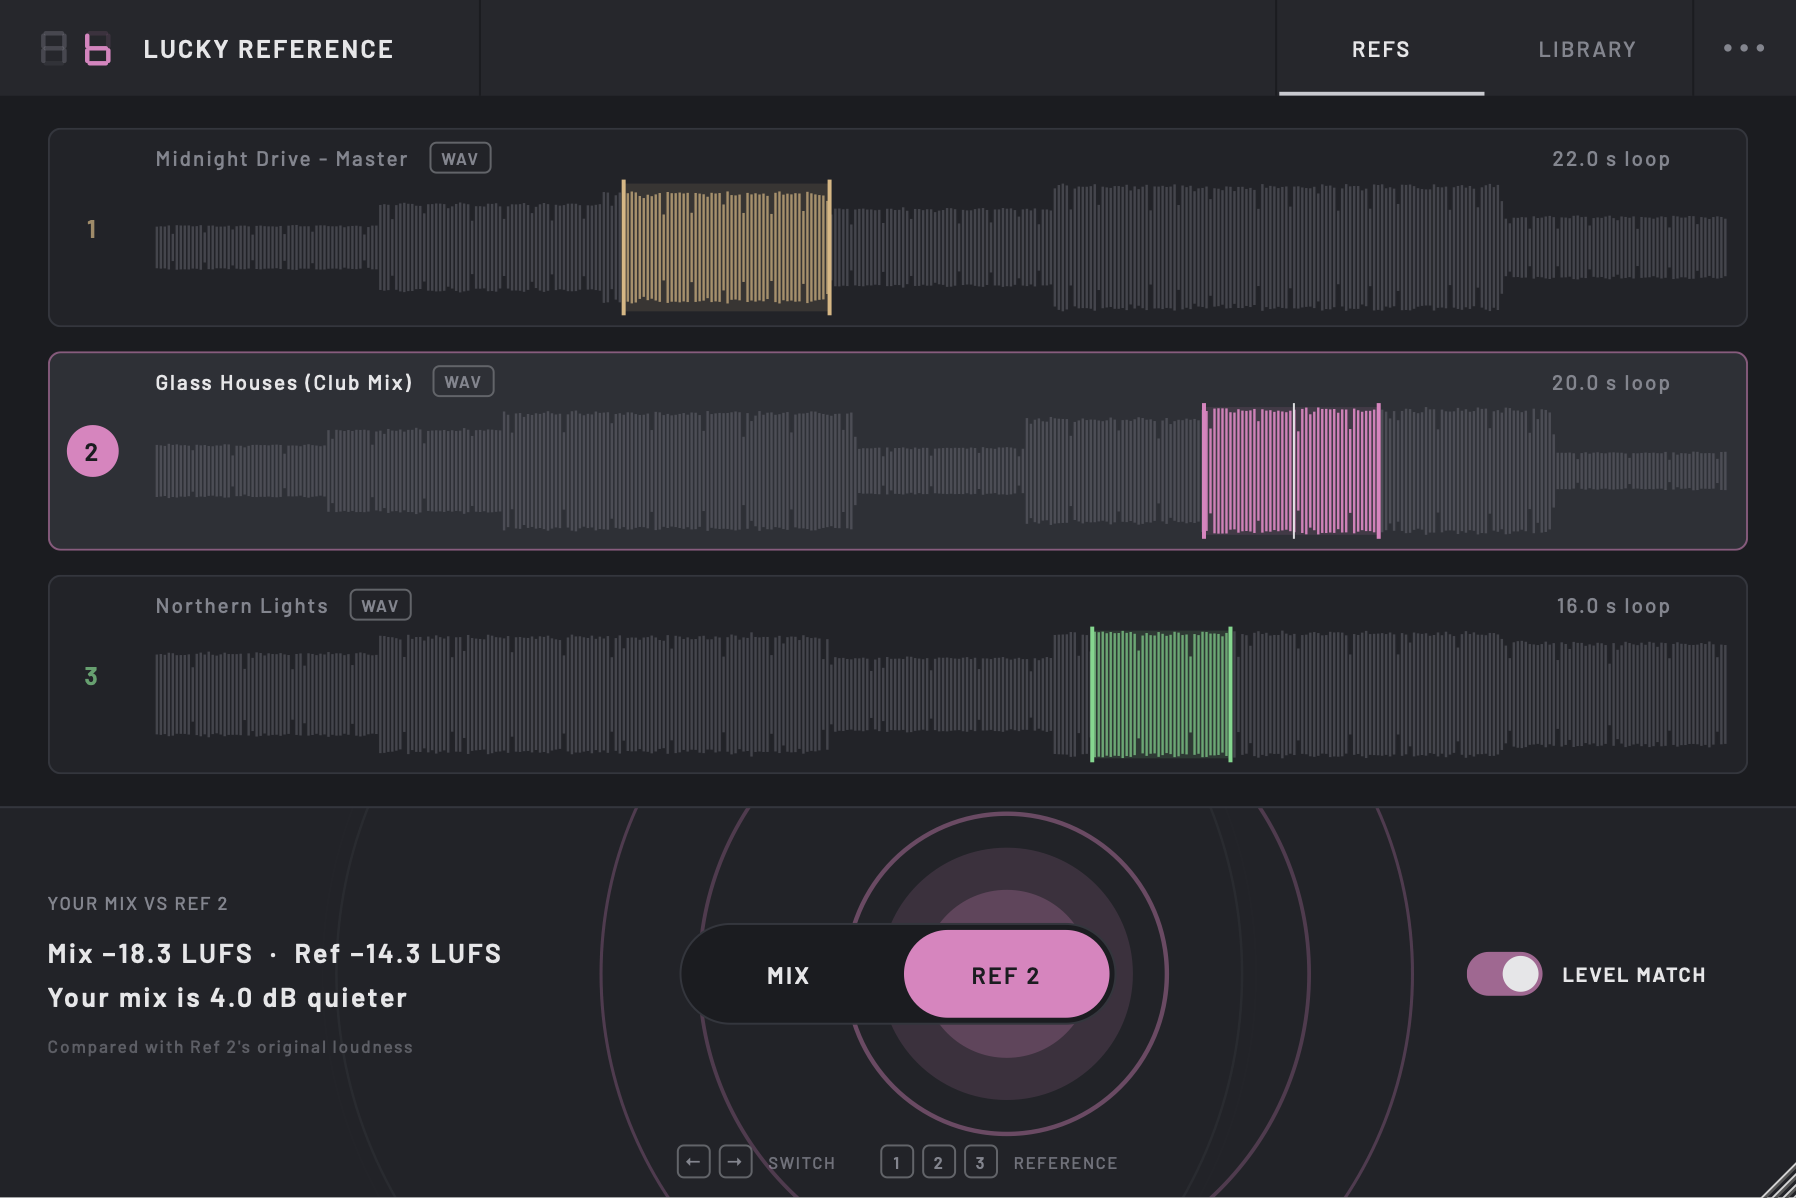
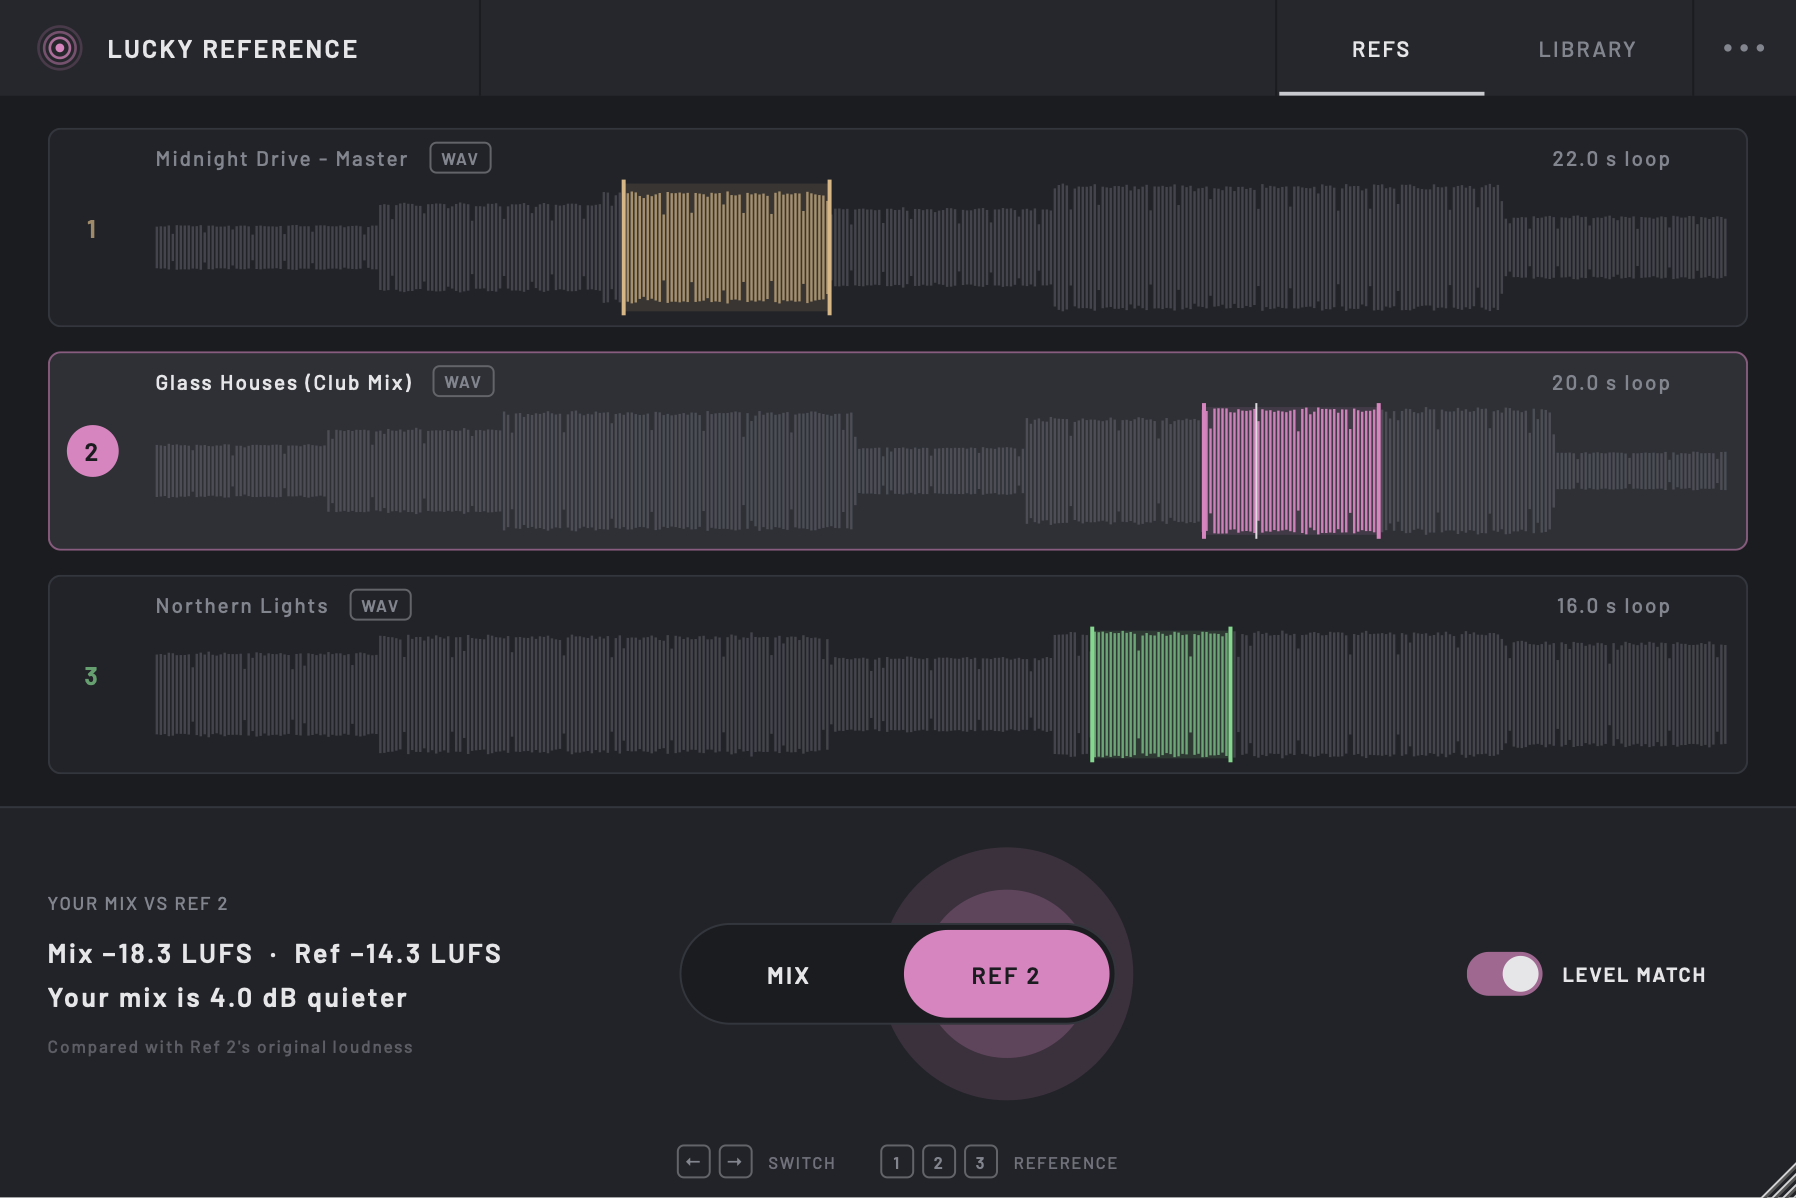
docs(site): reposition the site around mixing by ear
New headline and pillars, the renamed plugins, ripple logos, refreshed
screenshots, a gold open-source badge and a full-width footer.

Changed region(s): [[0.0, 0.0309, 0.2183, 0.0618], [0.4989, 0.6795, 0.6236, 0.7104], [0.5301, 0.9265, 0.5924, 0.9574]]

diff --git a/docs/index.html b/docs/index.html
@@ -4,16 +4,16 @@
 <meta charset="utf-8">
 <meta name="viewport" content="width=device-width, initial-scale=1">
 <title>Lucky Labs</title>
-<meta name="description" content="Lucky Labs makes simple, free, open-source audio plugins for macOS that get you to the right mix decision fast, by ear: Lucky Seven (convolution reverb), Lucky Comp (compressor) and Lucky Reference (reference tracks at matched loudness).">
+<meta name="description" content="Lucky Labs makes purpose-built mixing tools for macOS that help you make better mix decisions by ear: Lucky Reverb (convolution reverb), Lucky Compressor and Lucky Reference (reference tracks at matched loudness). Free and open source.">
 <meta property="og:title" content="Lucky Labs">
-<meta property="og:description" content="Let your ears do the mixing. Simple, free plugins for macOS that get you to the right mix decision fast.">
-<meta property="og:image" content="https://tomdmaguire.github.io/lucky-labs/assets/lucky-seven.png">
+<meta property="og:description" content="Make better mix decisions. By ear. Purpose-built mixing tools for macOS, free and open source.">
+<meta property="og:image" content="https://tomdmaguire.github.io/lucky-labs/assets/lucky-reverb.png">
 <meta property="og:type" content="website">
 <meta name="twitter:card" content="summary_large_image">
 <link rel="icon" href="assets/logo.svg" type="image/svg+xml">
 <link rel="stylesheet" href="assets/fonts/barlow.css">
 <style>
-  /* The Lucky family look: charcoal, pastel accents, Barlow throughout, seven-segment logos. */
+  /* The Lucky family look: charcoal, pastel accents, Barlow throughout, ripple logos. */
   :root {
     color-scheme: dark;
     --bg: #1b1c20;
@@ -54,6 +54,7 @@
   .hero h1 { font-family: var(--display); font-weight: 600; font-size: clamp(44px, 7vw, 76px); line-height: 1.0; letter-spacing: 0.01em; margin: 12px 0 22px; text-wrap: balance; }
   .hero p { color: var(--dim); max-width: 54ch; margin: 0 0 16px; }
   .hero p strong { color: var(--text); font-weight: 500; }
+  .chip { display: inline-block; margin-top: 6px; padding: 6px 12px; border: 1px solid color-mix(in srgb, var(--gold) 55%, transparent); background: color-mix(in srgb, var(--gold) 12%, transparent); border-radius: 999px; font-family: var(--display); font-weight: 600; letter-spacing: 0.08em; text-transform: uppercase; font-size: 13px; color: var(--gold); }
   .actions { display: flex; flex-wrap: wrap; gap: 14px; margin-top: 28px; }
   .button { display: inline-flex; align-items: center; gap: 10px; padding: 13px 22px; border-radius: 6px; font-family: var(--display); font-weight: 600; letter-spacing: 0.1em; text-transform: uppercase; font-size: 15px; text-decoration: none; }
   .button.primary { background: var(--gold); color: #1b1c20; }
@@ -61,17 +62,20 @@
   .button.secondary { color: var(--text); border: 1px solid var(--line); }
   .button.secondary:hover { border-color: var(--dim); }
 
-  /* Each plugin's seven-segment logo, lighting up in turn like a display cycling through its digits. */
+  /* Each plugin's ripple logo, lighting up in turn. */
   .display { justify-self: center; display: flex; gap: clamp(14px, 3vw, 28px); align-items: flex-end; padding: 28px 30px 22px; background: #141518; border: 1px solid var(--line); border-radius: 16px; box-shadow: inset 0 2px 18px rgba(0, 0, 0, 0.5); }
   .digit { display: grid; justify-items: center; gap: 12px; text-decoration: none; }
   .digit svg { height: clamp(78px, 11vw, 120px); overflow: visible; }
-  .digit path { fill: none; stroke-width: 5.5; stroke-linecap: round; stroke: var(--c); transition: opacity 0.6s ease, filter 0.6s ease; }
-  .digit .off { opacity: 0.08; }
-  .digit .lit { opacity: 0.35; }
-  .digit.on .lit { opacity: 1; filter: drop-shadow(0 0 9px color-mix(in srgb, var(--c) 60%, transparent)); }
+  .digit svg circle { transition: opacity 0.6s ease, filter 0.6s ease; }
+  .digit .ring { fill: none; stroke-width: 3; stroke: var(--c); opacity: 0.12; }
+  .digit .dot { fill: var(--c); opacity: 0.3; }
+  .digit.on .ring:nth-of-type(1) { opacity: 0.8; }
+  .digit.on .ring:nth-of-type(2) { opacity: 0.5; }
+  .digit.on .ring:nth-of-type(3) { opacity: 0.25; }
+  .digit.on .dot { opacity: 1; filter: drop-shadow(0 0 9px color-mix(in srgb, var(--c) 60%, transparent)); }
   .digit span { font-family: var(--display); font-weight: 600; letter-spacing: 0.16em; font-size: 12px; color: var(--dim); transition: color 0.6s ease; white-space: nowrap; }
   .digit.on span { color: var(--c); }
-  @media (prefers-reduced-motion: reduce) { .digit .lit { opacity: 1; } .digit span { color: var(--c); } }
+  @media (prefers-reduced-motion: reduce) { .digit .dot { opacity: 1; } .digit span { color: var(--c); } }
 
   section { padding-block: 64px; }
   section + section { border-top: 1px solid var(--line); }
@@ -80,6 +84,7 @@
 
   .plugin { display: grid; grid-template-columns: minmax(0, 1.25fr) minmax(0, 1fr); gap: 44px; align-items: center; }
   .plugin + .plugin { margin-top: 72px; }
+  .plugin:nth-of-type(even) { grid-template-columns: minmax(0, 1fr) minmax(0, 1.25fr); }
   .plugin:nth-of-type(even) .shot { order: 2; }
   .shot { display: block; border-radius: 12px; border: 1px solid var(--line); overflow: hidden; box-shadow: 0 30px 80px rgba(0, 0, 0, 0.45); transition: border-color 0.2s ease, transform 0.2s ease; }
   .shot:hover { border-color: color-mix(in srgb, var(--c) 60%, var(--line)); transform: translateY(-2px); }
@@ -100,14 +105,15 @@
   .feature p { margin: 0; color: var(--dim); }
 
   footer { border-top: 1px solid var(--line); padding-block: 36px 48px; color: var(--dim); font-size: 14px; }
-  footer .wrap { display: flex; flex-wrap: wrap; justify-content: space-between; gap: 12px 32px; }
-  footer p { margin: 0; max-width: 70ch; }
+  footer .wrap { display: grid; gap: 12px; }
+  footer .lead { color: var(--text); }
+  footer p { margin: 0; }
 
   @media (max-width: 980px) { .features { grid-template-columns: repeat(2, minmax(0, 1fr)); } }
   @media (max-width: 860px) {
     .hero { grid-template-columns: minmax(0, 1fr); padding-top: 48px; gap: 36px; }
     .display { justify-self: start; }
-    .plugin { grid-template-columns: minmax(0, 1fr); gap: 24px; }
+    .plugin, .plugin:nth-of-type(even) { grid-template-columns: minmax(0, 1fr); gap: 24px; }
     .plugin:nth-of-type(even) .shot { order: 0; }
   }
   @media (max-width: 560px) {
@@ -134,22 +140,23 @@
   <div class="wrap">
     <div class="hero">
       <div>
-        <span class="label">Open-source plugins for macOS</span>
-        <h1>Let your ears do the mixing.</h1>
-        <p><strong>Simple, free plugins that get you to the right mix decision fast.</strong></p>
+        <span class="label">Audio plugins for macOS</span>
+        <h1>Make better mix decisions. By ear.</h1>
+        <p><strong>Purpose-built mixing tools that help you hear what matters, without getting in the way.</strong></p>
+        <span class="chip">Free &amp; open source</span>
       </div>
 
       <div class="display" aria-hidden="true">
-        <a class="digit" href="#lucky-seven" style="--c: var(--gold)" tabindex="-1">
-          <svg viewBox="12 8 40 50"><path class="lit" d="M22 14 H42"/><path class="lit" d="M45 17 V30"/><path class="lit" d="M45 35 V48"/><path class="off" d="M19 17 V30"/><path class="off" d="M22 32.5 H42"/><path class="off" d="M19 35 V48"/><path class="off" d="M22 51 H42"/></svg>
-          <span>SEVEN</span>
+        <a class="digit" href="#lucky-reverb" style="--c: var(--gold)" tabindex="-1">
+          <svg viewBox="0 0 64 64"><circle class="ring" cx="32" cy="32" r="11.5"/><circle class="ring" cx="32" cy="32" r="18"/><circle class="ring" cx="32" cy="32" r="24.5"/><circle class="dot" cx="32" cy="32" r="5"/></svg>
+          <span>REVERB</span>
         </a>
-        <a class="digit" href="#lucky-comp" style="--c: var(--green)" tabindex="-1">
-          <svg viewBox="12 8 40 50"><path class="lit" d="M22 14 H42"/><path class="lit" d="M19 17 V30"/><path class="lit" d="M19 35 V48"/><path class="lit" d="M22 51 H42"/><path class="off" d="M45 17 V30"/><path class="off" d="M22 32.5 H42"/><path class="off" d="M45 35 V48"/></svg>
-          <span>COMP</span>
+        <a class="digit" href="#lucky-compressor" style="--c: var(--green)" tabindex="-1">
+          <svg viewBox="0 0 64 64"><circle class="ring" cx="32" cy="32" r="11.5"/><circle class="ring" cx="32" cy="32" r="18"/><circle class="ring" cx="32" cy="32" r="24.5"/><circle class="dot" cx="32" cy="32" r="5"/></svg>
+          <span>COMPRESSOR</span>
         </a>
         <a class="digit" href="#lucky-reference" style="--c: var(--pink)" tabindex="-1">
-          <svg viewBox="12 8 40 50"><path class="lit" d="M19 17 V30"/><path class="lit" d="M19 35 V48"/><path class="lit" d="M22 32.5 H42"/><path class="lit" d="M45 35 V48"/><path class="lit" d="M22 51 H42"/><path class="off" d="M22 14 H42"/><path class="off" d="M45 17 V30"/></svg>
+          <svg viewBox="0 0 64 64"><circle class="ring" cx="32" cy="32" r="11.5"/><circle class="ring" cx="32" cy="32" r="18"/><circle class="ring" cx="32" cy="32" r="24.5"/><circle class="dot" cx="32" cy="32" r="5"/></svg>
           <span>REFERENCE</span>
         </a>
       </div>
@@ -160,33 +167,33 @@
     <div class="wrap">
       <span class="label">The plugins</span>
       <h2>Three plugins, one idea.</h2>
-      <p class="intro">Each one takes a job that usually comes down to guesswork, scrolling presets, or trusting whatever sounds loudest, and gives you a fast, fair way to hear the answer instead.</p>
+      <p class="intro">Each one takes a job that usually comes down to guesswork, scrolling presets or trusting whatever sounds loudest, and gives you a fast, fair way to hear the answer.</p>
 
-      <article class="plugin" id="lucky-seven" style="--c: var(--gold)">
-        <a class="shot" href="https://tomdmaguire.github.io/lucky-seven/"><img src="assets/lucky-seven.png" width="1800" height="1200" loading="lazy" alt="Lucky Seven's map of reverbs, from bright to dark and short to long decay, with Vienna Hall selected and knobs for pre-delay, decay, width, low cut, damping and mix."></a>
+      <article class="plugin" id="lucky-reverb" style="--c: var(--gold)">
+        <a class="shot" href="https://tomdmaguire.github.io/lucky-reverb/"><img src="assets/lucky-reverb.png" width="1800" height="1200" loading="lazy" alt="Lucky Reverb's map of reverbs, from bright to dark and short to long decay, with Vienna Hall selected and knobs for pre-delay, decay, width, low cut, damping and mix."></a>
         <div>
-          <div class="name"><img src="assets/lucky-seven-logo.svg" alt=""><h3>Lucky Seven</h3></div>
-          <span class="label">Convolution reverb &middot; VST&reg;3 &amp; AU</span>
+          <div class="name"><img src="assets/lucky-reverb-logo.svg" alt=""><h3>Lucky Reverb</h3></div>
+          <span class="label">Convolution reverb &middot; VST3 &amp; AU</span>
           <p class="headline">Dial in the right reverb, fast.</p>
           <p>Browse reverbs on a map, from bright to dark and short to long, instead of scrolling a list of names. Then shape the decay, width and tone, and blend it in.</p>
           <p>Works with Samplicity's free Bricasti&nbsp;M7 captures, downloaded in one click, and any impulse-response library.</p>
           <div class="links">
-            <a class="button primary" href="https://tomdmaguire.github.io/lucky-seven/">Get Lucky Seven</a>
-            <a class="button secondary" href="https://github.com/tomdmaguire/lucky-seven">GitHub</a>
+            <a class="button primary" href="https://tomdmaguire.github.io/lucky-reverb/">Get Lucky Reverb</a>
+            <a class="button secondary" href="https://github.com/tomdmaguire/lucky-reverb">GitHub</a>
           </div>
         </div>
       </article>
 
-      <article class="plugin" id="lucky-comp" style="--c: var(--green)">
-        <a class="shot" href="https://tomdmaguire.github.io/lucky-comp/"><img src="assets/lucky-comp.png" width="1800" height="1200" loading="lazy" alt="Lucky Comp in Opto mode on a drum loop: a one-line tip, the live view with the gain-reduction line, and the Lab showing the harmonics Colour adds to a test snare."></a>
+      <article class="plugin" id="lucky-compressor" style="--c: var(--green)">
+        <a class="shot" href="https://tomdmaguire.github.io/lucky-compressor/"><img src="assets/lucky-compressor.png" width="1800" height="1200" loading="lazy" alt="Lucky Compressor in Opto mode on a drum loop: a one-line tip, the live view with the gain-reduction line, and the Lab showing the harmonics Colour adds to a test snare."></a>
         <div>
-          <div class="name"><img src="assets/lucky-comp-logo.svg" alt=""><h3>Lucky Comp</h3></div>
+          <div class="name"><img src="assets/lucky-compressor-logo.svg" alt=""><h3>Lucky Compressor</h3></div>
           <span class="label">Compressor &middot; VST3 &amp; AU</span>
           <p class="headline">Compression by ear.</p>
-          <p>Clean, FET, Opto and VCA modes in the style of the classics, on one set of dials. Level-matched, so you hear the compression rather than the loudness, with the gain-reduction number hidden until you ask for it.</p>
+          <p>A great-sounding compressor for real mixes: four carefully modelled compression behaviours (Clean, FET, Opto and VCA) on one set of dials. Level-matched, so you hear the compression rather than the loudness, with the gain-reduction number hidden until you ask for it.</p>
           <div class="links">
-            <a class="button primary" href="https://tomdmaguire.github.io/lucky-comp/">Get Lucky Comp</a>
-            <a class="button secondary" href="https://github.com/tomdmaguire/lucky-comp">GitHub</a>
+            <a class="button primary" href="https://tomdmaguire.github.io/lucky-compressor/">Get Lucky Compressor</a>
+            <a class="button secondary" href="https://github.com/tomdmaguire/lucky-compressor">GitHub</a>
           </div>
         </div>
       </article>
@@ -197,7 +204,7 @@
           <div class="name"><img src="assets/lucky-reference-logo.svg" alt=""><h3>Lucky Reference</h3></div>
           <span class="label">Reference plugin &middot; VST3 &amp; AU</span>
           <p class="headline">No-nonsense referencing.</p>
-          <p>Load up to three reference tracks, loop the part you care about, and flip between your mix and a reference with one switch, at matched loudness, so louder never wins by accident.</p>
+          <p>Load up to three reference tracks, loop the part you care about, and flip between your mix and a reference with one switch, at matched loudness.</p>
           <p>A library keeps your references one search away and ranks them by how close they sound to your mix.</p>
           <div class="links">
             <a class="button primary" href="https://tomdmaguire.github.io/lucky-reference/">Get Lucky Reference</a>
@@ -211,23 +218,23 @@
   <section id="shared">
     <div class="wrap">
       <span class="label">Why Lucky</span>
-      <h2>Make your own luck.</h2>
+      <h2>Let your ears do the mixing.</h2>
       <div class="features">
         <div class="feature" style="--dot: var(--gold)">
-          <h3>Ears first</h3>
-          <p>Your ears make the call. Every plugin is built around hearing the difference, not reading it off a screen.</p>
+          <h3>Listen, don't look</h3>
+          <p>Level-matched comparisons, a map of sounds and one-key switching, so you hear the difference instead of reading it off a meter.</p>
         </div>
         <div class="feature" style="--dot: var(--pink)">
-          <h3>Fast to the answer</h3>
-          <p>Maps, search and one-key switching get you to a decision in seconds, not an afternoon of presets.</p>
+          <h3>Less in the way</h3>
+          <p>Focused controls and nothing you don't need. Each plugin does its job without trying to be everything.</p>
         </div>
         <div class="feature" style="--dot: var(--green)">
-          <h3>Learn as you go</h3>
-          <p>Each plugin shows you what it's doing and why it sounds the way it does, so every mix levels up your ears and your know-how a little more.</p>
+          <h3>Built for real mixes</h3>
+          <p>Made in real sessions, with the sound and features to earn a place in your plugin folder.</p>
         </div>
         <div class="feature" style="--dot: var(--blue)">
           <h3>Free and open</h3>
-          <p>Free to download and open source under the AGPLv3. No accounts, licence keys or subscriptions. Apple Silicon and Intel.</p>
+          <p>Free to download and open source under the AGPLv3. No accounts, licence keys or subscriptions. Apple Silicon and Intel. Bug reports, ideas and pull requests are welcome on <a href="https://github.com/tomdmaguire/lucky-labs">GitHub</a>.</p>
         </div>
       </div>
     </div>
@@ -236,13 +243,13 @@
 
 <footer>
   <div class="wrap">
-    <p>Lucky Labs is an independent project by <a href="https://github.com/tomdmaguire">Tom Maguire</a>. Bricasti and M7 are trademarks of Bricasti Design, 1176 and LA-2A of Universal Audio, Inc., and SSL of Solid State Logic, mentioned only to describe what the plugins work with or are styled after; Lucky Labs isn't affiliated with or endorsed by them. VST is a registered trademark of Steinberg Media Technologies GmbH. Audio Units is a trademark of Apple Inc.</p>
-    <p><a href="https://github.com/tomdmaguire/lucky-labs">Lucky Labs on GitHub</a></p>
+    <p class="lead">Lucky Labs is an independent project by <a href="https://github.com/tomdmaguire">Tom Maguire</a>. Free to use, open to explore. The source is on <a href="https://github.com/tomdmaguire/lucky-labs">GitHub</a>.</p>
+    <p>Bricasti and M7 are trademarks of Bricasti Design, 1176 and LA-2A of Universal Audio, Inc., and SSL of Solid State Logic, mentioned only to describe what the plugins work with or are styled after; Lucky Labs isn't affiliated with or endorsed by them. VST is a registered trademark of Steinberg Media Technologies GmbH. Audio Units is a trademark of Apple Inc.</p>
   </div>
 </footer>
 
 <script>
-  // Light each plugin's digit in turn, like a display cycling through its readout.
+  // Light each plugin's ripple logo in turn.
   (() => {
     const digits = [...document.querySelectorAll(".digit")];
     if (window.matchMedia("(prefers-reduced-motion: reduce)").matches) {
